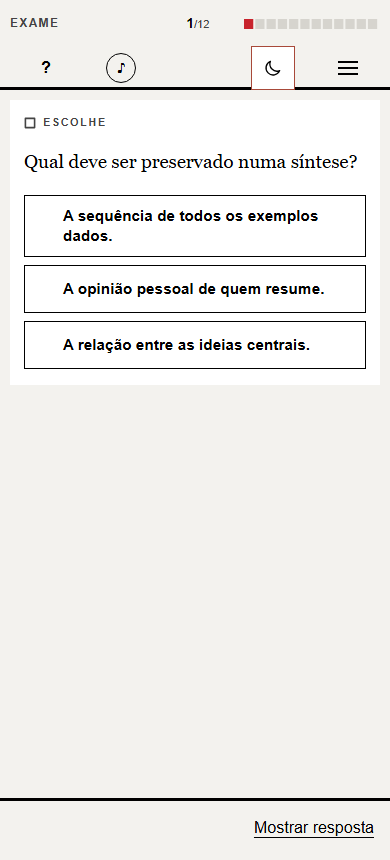
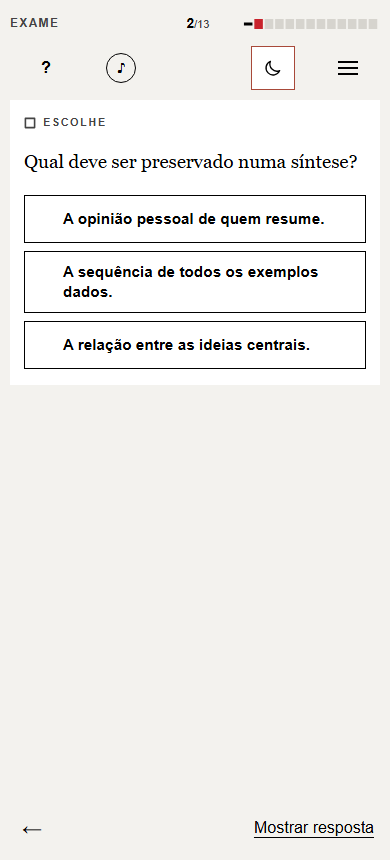
Disponibilizar os textos de apoio nos aquecimentos de síntese e estudo

diff --git a/exame/aquecimentos/s20/index.html b/exame/aquecimentos/s20/index.html
@@ -28,7 +28,7 @@
 <div id="relogio-aquecer"></div>
 <p class="c-menu-extra">Podes consultar os textos. O progresso fica neste aparelho; a projeção não o guarda.</p></div></div></div>
 <noscript>Ativa JavaScript para abrir os cartões. <a href="../../#s20/aquecer">Voltar à sessão</a>.</noscript>
-<script id="exame-aquecimento-dados" type="application/json">{"sessao": "s20", "versao": 1, "titulo": "Ler informação e escrever uma síntese", "cartoes": [{"p": "Qual deve ser preservado numa síntese?", "f": "A síntese mantém a informação essencial e as relações que a organizam; não acrescenta uma avaliação pessoal.", "legacyId": "s20-q1", "recycledFrom": "/pt/m9/licao-m9-f07/", "t": "escolha", "o": ["A relação entre as ideias centrais.", "A sequência de todos os exemplos dados.", "A opinião pessoal de quem resume."], "c": 0, "fe": [null, "Exemplos secundários podem sair; a organização das ideias não.", "Uma síntese não substitui a posição do texto pela tua opinião."]}, {"p": "Qual destas operações é reformulação?", "f": "Reformular exige compreender a ideia e construir outra expressão para o mesmo sentido, sem disfarçar cópia.", "legacyId": "s20-q2", "recycledFrom": "/pt/m9/licao-m9-f07/", "t": "escolha", "o": ["Dizer a ideia de outro modo, sem a alterar.", "Copiar a mesma ideia sem indicar de quem ela é.", "Trocar uma palavra, copiando todo o resto."], "c": 0, "fe": [null, "Retirar a autoria de uma cópia não a transforma numa reformulação.", "Trocar uma palavra pode deixar toda a estrutura copiada."]}, {"p": "No texto de apoio, que relação se estabelece entre rapidez e estudo?", "f": "A ideia é uma condição, não uma rejeição do acesso digital: a vantagem precisa de ser acompanhada por leitura crítica.", "legacyId": "s20-q3", "recycledFrom": "/pt/m9/licao-m9-f07/", "t": "escolha", "o": ["Ajuda, mas não substitui a compreensão.", "Dispensa compreender o que se encontra.", "Impede sempre compreender o que se lê."], "c": 0, "fe": [null, "Encontrar rapidamente não dispensa compreender.", "O texto reconhece utilidade à rapidez; não a apresenta como impedimento absoluto."]}, {"t": "emparelhar", "p": "Liga cada operação ao seu objetivo.", "pares": [["Localizar a ideia que organiza o texto", "Selecionar o essencial"], ["Dizer a mesma ideia com outras palavras", "Reformular sem alterar"], ["Conservar a relação entre duas ideias", "Manter a organização"]], "f": "Selecionar não é copiar tudo; reformular não é alterar o sentido. Verifica também como as ideias se ligam.", "fe": "Confere o indício e a relação pedidos, antes de voltares a responder.", "recycledFrom": "/pt/m4/licao-m4-f27/", "sourceCard": 13, "adaptacao": "Operação da lição aplicada a um recorte ou exemplo indicado no cartão."}, {"t": "sublinhar", "p": "No exemplo criado para este treino, toca na palavra que impede tratar a relação como causa.", "frase": "A consulta é rápida, mas compreender exige relacionar ideias.", "certas": [4], "f": "Mas opõe a rapidez à exigência de compreender. Uma síntese que o trocasse por porque alteraria a relação entre as ideias.", "fe": "Confere o indício e a relação pedidos, antes de voltares a responder.", "recycledFrom": "/pt/m7/licao-m7-f07/", "sourceCard": 4, "adaptacao": "Operação da lição aplicada a um recorte ou exemplo indicado no cartão."}, {"t": "completar", "p": "Completa uma regra de reformulação fiel.", "frase": "Mudam as [1], mas conserva-se o [2] da passagem.", "lacunas": [{"o": ["palavras", "citações"], "c": 0, "fe": [null, "Nesta lacuna, citações não corresponde à relação pedida."]}, {"o": ["sentido", "tamanho"], "c": 0, "fe": [null, "Nesta lacuna, tamanho não corresponde à relação pedida."]}], "f": "Reformular altera a expressão, não o sentido. Conservar o número de palavras não garante que a ideia se mantenha.", "fe": "Confere o indício e a relação pedidos, antes de voltares a responder.", "recycledFrom": "/pt/m4/licao-m4-f27/", "sourceCard": 13, "adaptacao": "Operação da lição aplicada a um recorte ou exemplo indicado no cartão."}, {"t": "ordenar", "p": "Ordena a preparação de uma síntese.", "passos": ["Ler o texto por inteiro", "Distinguir ideias centrais e exemplos", "Registar as relações entre as ideias", "Reformular e confrontar com o original"], "f": "Não comeces por cortar frases ao acaso. Lê o conjunto, seleciona e verifica se a versão breve conserva as relações.", "fe": "Confere o indício e a relação pedidos, antes de voltares a responder.", "recycledFrom": "/pt/m9/licao-m9-f07/", "sourceCard": 15, "adaptacao": "Operação da lição aplicada a um recorte ou exemplo indicado no cartão."}, {"t": "vf", "p": "Uma citação correta pode ser insuficiente para explicar uma ideia.", "v": true, "f": "A lição distingue ideia, prova e explicação. Repara se a resposta apenas transcreve ou se mostra como a passagem apoia a ideia.", "fe": "Confere o indício e a relação pedidos, antes de voltares a responder.", "recycledFrom": "/pt/m4/licao-m4-f27/", "sourceCard": 11, "adaptacao": "Operação da lição aplicada a um recorte ou exemplo indicado no cartão."}, {"t": "emparelhar", "p": "Distingue três operações presentes nas respostas.", "pares": [["Dar o nome de um recurso", "Identificar"], ["Mostrar como um indício apoia uma ideia", "Fundamentar"], ["Relacionar textos por um mesmo critério", "Comparar"]], "f": "O verbo do pedido orienta a resposta. Dar um nome não substitui explicar a ligação entre a prova e a ideia.", "fe": "Confere o indício e a relação pedidos, antes de voltares a responder.", "recycledFrom": "/pt/m4/licao-m4-f27/", "sourceCard": 14, "adaptacao": "Operação da lição aplicada a um recorte ou exemplo indicado no cartão."}, {"t": "sublinhar", "p": "No exemplo imaginário, toca na palavra que limita o alcance da afirmação.", "frase": "Alguns leitores confundem rapidez de consulta com compreensão.", "certas": [0], "f": "Alguns limita o conjunto. Uma síntese que dissesse todos acrescentaria uma generalização que a frase não autoriza.", "fe": "Confere o indício e a relação pedidos, antes de voltares a responder.", "recycledFrom": "/pt/m2/licao-m2-f08/", "sourceCard": 7, "adaptacao": "Operação da lição aplicada a um recorte ou exemplo indicado no cartão."}, {"t": "vf", "p": "Um exemplo secundário deve ocupar sempre tanto espaço como a ideia central numa síntese.", "v": false, "f": "A seleção depende da função de cada informação. Repara no que organiza o texto e no que apenas ilustra essa ideia.", "fe": "Confere o indício e a relação pedidos, antes de voltares a responder.", "recycledFrom": "/pt/m9/licao-m9-f07/", "sourceCard": 15, "adaptacao": "Operação da lição aplicada a um recorte ou exemplo indicado no cartão."}, {"t": "ordenar", "p": "Ordena a revisão de uma reformulação.", "passos": ["Confrontar a ideia com a passagem original", "Verificar o alcance das afirmações", "Confirmar os conectores e os referentes", "Retirar repetições dispensáveis"], "f": "Revê o sentido antes do tamanho. Alterar um quantificador ou um conector pode mudar a ideia mesmo numa frase curta.", "fe": "Confere o indício e a relação pedidos, antes de voltares a responder.", "recycledFrom": "/pt/m2/licao-m2-f08/", "sourceCard": 18, "adaptacao": "Operação da lição aplicada a um recorte ou exemplo indicado no cartão."}]}</script>
+<script id="exame-aquecimento-dados" type="application/json">{"sessao": "s20", "versao": 1, "titulo": "Ler informação e escrever uma síntese", "cartoes": [{"t": "ler", "titulo": "Texto para consultar", "html": "<p>Consulta o texto quando precisares de confirmar uma escolha.<\/p><details><summary>Abrir o texto de apoio<\/summary><p>A consulta digital permite encontrar documentos com rapidez e aproximar leitores de obras que antes estavam longe. Contudo, a abundância de resultados cria também dificuldades de seleção. Uma lista extensa pode repetir a mesma origem ou misturar informação verificada e interpretação. A biblioteca ajuda a organizar esse universo: identifica fontes, oferece critérios e apoia quem procura. Estudar exige, por isso, comparar documentos e perceber as relações entre as ideias. Copiar fragmentos para uma pasta não equivale a compreender. A rapidez de acesso é uma vantagem quando é acompanhada pelo tempo necessário para ler, interrogar e reformular. O objetivo não é acumular resultados, mas construir conhecimento que possa ser explicado e usado com responsabilidade.<\/p><p class=\"fonte\">Texto e proposta produzidos para este treino.<\/p><\/details>", "recycledFrom": "/pt/exame/", "sourceSession": "s20"}, {"p": "Qual deve ser preservado numa síntese?", "f": "A síntese mantém a informação essencial e as relações que a organizam; não acrescenta uma avaliação pessoal.", "legacyId": "s20-q1", "recycledFrom": "/pt/m9/licao-m9-f07/", "t": "escolha", "o": ["A relação entre as ideias centrais.", "A sequência de todos os exemplos dados.", "A opinião pessoal de quem resume."], "c": 0, "fe": [null, "Exemplos secundários podem sair; a organização das ideias não.", "Uma síntese não substitui a posição do texto pela tua opinião."]}, {"p": "Qual destas operações é reformulação?", "f": "Reformular exige compreender a ideia e construir outra expressão para o mesmo sentido, sem disfarçar cópia.", "legacyId": "s20-q2", "recycledFrom": "/pt/m9/licao-m9-f07/", "t": "escolha", "o": ["Dizer a ideia de outro modo, sem a alterar.", "Copiar a mesma ideia sem indicar de quem ela é.", "Trocar uma palavra, copiando todo o resto."], "c": 0, "fe": [null, "Retirar a autoria de uma cópia não a transforma numa reformulação.", "Trocar uma palavra pode deixar toda a estrutura copiada."]}, {"p": "No texto de apoio, que relação se estabelece entre rapidez e estudo?", "f": "A ideia é uma condição, não uma rejeição do acesso digital: a vantagem precisa de ser acompanhada por leitura crítica.", "legacyId": "s20-q3", "recycledFrom": "/pt/m9/licao-m9-f07/", "t": "escolha", "o": ["Ajuda, mas não substitui a compreensão.", "Dispensa compreender o que se encontra.", "Impede sempre compreender o que se lê."], "c": 0, "fe": [null, "Encontrar rapidamente não dispensa compreender.", "O texto reconhece utilidade à rapidez; não a apresenta como impedimento absoluto."]}, {"t": "emparelhar", "p": "Liga cada operação ao seu objetivo.", "pares": [["Localizar a ideia que organiza o texto", "Selecionar o essencial"], ["Dizer a mesma ideia com outras palavras", "Reformular sem alterar"], ["Conservar a relação entre duas ideias", "Manter a organização"]], "f": "Selecionar não é copiar tudo; reformular não é alterar o sentido. Verifica também como as ideias se ligam.", "fe": "Confere o indício e a relação pedidos, antes de voltares a responder.", "recycledFrom": "/pt/m4/licao-m4-f27/", "sourceCard": 13, "adaptacao": "Operação da lição aplicada a um recorte ou exemplo indicado no cartão."}, {"t": "sublinhar", "p": "No exemplo criado para este treino, toca na palavra que impede tratar a relação como causa.", "frase": "A consulta é rápida, mas compreender exige relacionar ideias.", "certas": [4], "f": "Mas opõe a rapidez à exigência de compreender. Uma síntese que o trocasse por porque alteraria a relação entre as ideias.", "fe": "Confere o indício e a relação pedidos, antes de voltares a responder.", "recycledFrom": "/pt/m7/licao-m7-f07/", "sourceCard": 4, "adaptacao": "Operação da lição aplicada a um recorte ou exemplo indicado no cartão."}, {"t": "completar", "p": "Completa uma regra de reformulação fiel.", "frase": "Mudam as [1], mas conserva-se o [2] da passagem.", "lacunas": [{"o": ["palavras", "citações"], "c": 0, "fe": [null, "Nesta lacuna, citações não corresponde à relação pedida."]}, {"o": ["sentido", "tamanho"], "c": 0, "fe": [null, "Nesta lacuna, tamanho não corresponde à relação pedida."]}], "f": "Reformular altera a expressão, não o sentido. Conservar o número de palavras não garante que a ideia se mantenha.", "fe": "Confere o indício e a relação pedidos, antes de voltares a responder.", "recycledFrom": "/pt/m4/licao-m4-f27/", "sourceCard": 13, "adaptacao": "Operação da lição aplicada a um recorte ou exemplo indicado no cartão."}, {"t": "ordenar", "p": "Ordena a preparação de uma síntese.", "passos": ["Ler o texto por inteiro", "Distinguir ideias centrais e exemplos", "Registar as relações entre as ideias", "Reformular e confrontar com o original"], "f": "Não comeces por cortar frases ao acaso. Lê o conjunto, seleciona e verifica se a versão breve conserva as relações.", "fe": "Confere o indício e a relação pedidos, antes de voltares a responder.", "recycledFrom": "/pt/m9/licao-m9-f07/", "sourceCard": 15, "adaptacao": "Operação da lição aplicada a um recorte ou exemplo indicado no cartão."}, {"t": "vf", "p": "Uma citação correta pode ser insuficiente para explicar uma ideia.", "v": true, "f": "A lição distingue ideia, prova e explicação. Repara se a resposta apenas transcreve ou se mostra como a passagem apoia a ideia.", "fe": "Confere o indício e a relação pedidos, antes de voltares a responder.", "recycledFrom": "/pt/m4/licao-m4-f27/", "sourceCard": 11, "adaptacao": "Operação da lição aplicada a um recorte ou exemplo indicado no cartão."}, {"t": "emparelhar", "p": "Distingue três operações presentes nas respostas.", "pares": [["Dar o nome de um recurso", "Identificar"], ["Mostrar como um indício apoia uma ideia", "Fundamentar"], ["Relacionar textos por um mesmo critério", "Comparar"]], "f": "O verbo do pedido orienta a resposta. Dar um nome não substitui explicar a ligação entre a prova e a ideia.", "fe": "Confere o indício e a relação pedidos, antes de voltares a responder.", "recycledFrom": "/pt/m4/licao-m4-f27/", "sourceCard": 14, "adaptacao": "Operação da lição aplicada a um recorte ou exemplo indicado no cartão."}, {"t": "sublinhar", "p": "No exemplo imaginário, toca na palavra que limita o alcance da afirmação.", "frase": "Alguns leitores confundem rapidez de consulta com compreensão.", "certas": [0], "f": "Alguns limita o conjunto. Uma síntese que dissesse todos acrescentaria uma generalização que a frase não autoriza.", "fe": "Confere o indício e a relação pedidos, antes de voltares a responder.", "recycledFrom": "/pt/m2/licao-m2-f08/", "sourceCard": 7, "adaptacao": "Operação da lição aplicada a um recorte ou exemplo indicado no cartão."}, {"t": "vf", "p": "Um exemplo secundário deve ocupar sempre tanto espaço como a ideia central numa síntese.", "v": false, "f": "A seleção depende da função de cada informação. Repara no que organiza o texto e no que apenas ilustra essa ideia.", "fe": "Confere o indício e a relação pedidos, antes de voltares a responder.", "recycledFrom": "/pt/m9/licao-m9-f07/", "sourceCard": 15, "adaptacao": "Operação da lição aplicada a um recorte ou exemplo indicado no cartão."}, {"t": "ordenar", "p": "Ordena a revisão de uma reformulação.", "passos": ["Confrontar a ideia com a passagem original", "Verificar o alcance das afirmações", "Confirmar os conectores e os referentes", "Retirar repetições dispensáveis"], "f": "Revê o sentido antes do tamanho. Alterar um quantificador ou um conector pode mudar a ideia mesmo numa frase curta.", "fe": "Confere o indício e a relação pedidos, antes de voltares a responder.", "recycledFrom": "/pt/m2/licao-m2-f08/", "sourceCard": 18, "adaptacao": "Operação da lição aplicada a um recorte ou exemplo indicado no cartão."}]}</script>
 <script defer src="../../../assets/exame/aquecimento.js?v=20261101"></script>
 <script defer src="../../../assets/projection-launcher.js?v=20261019.4" data-site="pt"></script>
 </body></html>

diff --git a/exame/aquecimentos/s27/index.html b/exame/aquecimentos/s27/index.html
@@ -28,7 +28,7 @@
 <div id="relogio-aquecer"></div>
 <p class="c-menu-extra">Podes consultar os textos. O progresso fica neste aparelho; a projeção não o guarda.</p></div></div></div>
 <noscript>Ativa JavaScript para abrir os cartões. <a href="../../#s27/aquecer">Voltar à sessão</a>.</noscript>
-<script id="exame-aquecimento-dados" type="application/json">{"sessao": "s27", "versao": 1, "titulo": "Ver, compreender, estudar melhor", "cartoes": [{"p": "Reconhecer uma explicação ao relê-la basta para verificar se a sabes aplicar?", "f": "Aplicar num caso diferente ajuda a distinguir a familiaridade com as palavras da compreensão do conteúdo.", "legacyId": "s27-q1", "recycledFrom": "/pt/m5/licao-m5-f07/", "t": "escolha", "o": ["Não: testa a aplicação num caso novo.", "Sim: reconhecer e aplicar são iguais.", "Sim: basta reler a explicação depressa."], "c": 0, "fe": [null, "Reconhecer uma explicação e aplicá-la são operações diferentes.", "A velocidade da releitura não demonstra aplicação autónoma."]}, {"p": "Qual destes registos ajuda mais a decidir o que rever?", "f": "O registo concreto permite escolher uma ação de revisão e verificar depois se a dificuldade foi ultrapassada.", "legacyId": "s27-q2", "recycledFrom": "/pt/m5/licao-m5-f07/", "t": "escolha", "o": ["Identifiquei a função, mas não a expliquei.", "Dediquei bastante tempo a estudar esta parte.", "Achei o estudo desta parte muito difícil."], "c": 0, "fe": [null, "O tempo de estudo não identifica a operação que falta dominar.", "Difícil é uma avaliação vaga, sem diagnóstico do passo em falta."]}, {"p": "Como usar uma proposta de estudo apresentada num vídeo?", "f": "Uma proposta deve ser aplicada e avaliada. A utilidade depende do que precisas de aprender e do resultado do ensaio.", "legacyId": "s27-q3", "recycledFrom": "/pt/m5/licao-m5-f07/", "t": "escolha", "o": ["Testar, observar resultados e ajustar.", "Cumprir sempre, sem rever resultados.", "Aceitar como garantia de bons resultados."], "c": 0, "fe": [null, "Um procedimento que não ajuda precisa de ser ajustado.", "Uma proposta de estudo não garante o resultado sem aplicação e verificação."]}, {"t": "emparelhar", "p": "Liga cada função ao nível da frase a que pertence.", "pares": [["Sujeito e predicado", "ao nível da frase"], ["Complemento oblíquo", "interno ao grupo verbal"], ["Complemento do nome", "interno ao grupo nominal"]], "f": "Três níveis: a frase, o grupo verbal, o grupo nominal; cada função tem o seu.", "recycledFrom": "/pt/m5/licao-m5-f07/", "sourceCard": 13, "fe": "Confere o indício e a relação pedidos, antes de voltares a responder."}, {"t": "vf", "p": "Cortar «serenamente» de «Entrou serenamente no seu quarto» deixa a frase inteira: é modificador do grupo verbal.", "v": true, "f": "Verdadeiro: «Entrou no seu quarto» aguenta-se; o **teste de cortar** revela o modificador do grupo verbal.", "fe": "É verdadeiro: «Entrou no seu quarto» aguenta-se sem «serenamente»; o que se corta sem estragar a frase é modificador do grupo verbal.", "recycledFrom": "/pt/m5/licao-m5-f07/", "sourceCard": 14}, {"t": "emparelhar", "p": "Liga cada pedaço da frase à sua função sintática.", "pares": [["Teresa", "sujeito"], ["enviou a trança a Simão", "predicado"], ["a trança", "complemento direto"], ["a Simão", "complemento indireto"]], "f": "Quem? Teresa. O quê? A trança, que vira «a». A quem? A Simão, que vira «lhe»: juntos, «enviou-lha».", "recycledFrom": "/pt/m5/licao-m5-f07/", "sourceCard": 19, "fe": "Confere o indício e a relação pedidos, antes de voltares a responder."}, {"t": "sublinhar", "p": "No exemplo de treino, toca no grupo que o verbo seleciona como complemento direto.", "frase": "A leitora encontrou provas no texto.", "certas": [3], "f": "Provas é o que a leitora encontrou. No texto situa a ação, mas não responde à pergunta sobre o que foi encontrado.", "fe": "Confere o indício e a relação pedidos, antes de voltares a responder.", "recycledFrom": "/pt/m5/licao-m5-f07/", "sourceCard": 3, "adaptacao": "Operação da lição aplicada a um recorte ou exemplo indicado no cartão."}, {"t": "completar", "p": "Completa o registo de uma dificuldade concreta.", "frase": "Consigo [1] a função, mas ainda preciso de [2] a relação com o verbo.", "lacunas": [{"o": ["nomear", "copiar"], "c": 0, "fe": [null, "Nesta lacuna, copiar não corresponde à relação pedida."]}, {"o": ["explicar", "recordar"], "c": 0, "fe": [null, "Nesta lacuna, recordar não corresponde à relação pedida."]}], "f": "Nomear a função e explicar a relação são operações diferentes. O registo útil indica precisamente qual delas ainda falta dominar.", "fe": "Confere o indício e a relação pedidos, antes de voltares a responder.", "recycledFrom": "/pt/m5/licao-m5-f07/", "sourceCard": 13, "adaptacao": "Operação da lição aplicada a um recorte ou exemplo indicado no cartão."}, {"t": "ordenar", "p": "Ordena uma verificação da aprendizagem.", "passos": ["Resolver um exemplo sem consultar a explicação", "Confrontar a resposta com a justificação", "Identificar a operação em que houve dificuldade", "Resolver outro exemplo dessa operação"], "f": "Reconhecer uma explicação não prova que a sabes aplicar. O segundo exemplo verifica se corrigiste a dificuldade, não apenas se recordas a resposta.", "fe": "Confere o indício e a relação pedidos, antes de voltares a responder.", "recycledFrom": "/pt/m5/licao-m5-f07/", "sourceCard": 9, "adaptacao": "Operação da lição aplicada a um recorte ou exemplo indicado no cartão."}, {"t": "vf", "p": "Se acertas no nome da função mas não consegues justificá-la, já verificaste as duas operações.", "v": false, "f": "Nomear e justificar exigem respostas diferentes. Volta à relação entre o verbo e o grupo da frase para testar a segunda operação.", "fe": "Confere o indício e a relação pedidos, antes de voltares a responder.", "recycledFrom": "/pt/m5/licao-m5-f07/", "sourceCard": 13, "adaptacao": "Operação da lição aplicada a um recorte ou exemplo indicado no cartão."}, {"t": "sublinhar", "p": "No registo de treino, toca no que identifica uma dificuldade observável.", "frase": "Acertei na função, mas não expliquei a seleção pelo verbo.", "certas": [4, 5, 6, 7, 8, 9], "f": "Não expliquei a seleção pelo verbo identifica o passo em falta. Uma avaliação vaga de esforço não mostra o que deves voltar a experimentar.", "fe": "Confere o indício e a relação pedidos, antes de voltares a responder.", "recycledFrom": "/pt/m5/licao-m5-f07/", "sourceCard": 13, "adaptacao": "Operação da lição aplicada a um recorte ou exemplo indicado no cartão."}, {"t": "ordenar", "p": "Ordena o uso de uma explicação de ajuda.", "passos": ["Escolher a ajuda para a dificuldade identificada", "Observar o procedimento explicado", "Aplicar o procedimento a outro exemplo", "Verificar o resultado e ajustar o estudo"], "f": "A ajuda serve uma dificuldade concreta. Voltar ao vídeo sem experimentar a operação pode deixar a mesma dificuldade por resolver.", "fe": "Confere o indício e a relação pedidos, antes de voltares a responder.", "recycledFrom": "/pt/m5/licao-m5-f07/", "sourceCard": 9, "adaptacao": "Operação da lição aplicada a um recorte ou exemplo indicado no cartão."}]}</script>
+<script id="exame-aquecimento-dados" type="application/json">{"sessao": "s27", "versao": 1, "titulo": "Ver, compreender, estudar melhor", "cartoes": [{"t": "ler", "titulo": "Texto para consultar", "html": "<p>Consulta o texto quando precisares de confirmar uma escolha.<\/p><details><summary>Abrir o texto de apoio<\/summary><p>A Inês reconhece as definições quando as relê. Numa frase nova, hesita na função sintática. O Rui termina depressa uma resposta sobre um poema, mas não explica o que a sua citação demonstra.<\/p><p class=\"fonte\">Proposta de aplicação produzida para esta sessão.<\/p><\/details>", "recycledFrom": "/pt/exame/", "sourceSession": "s27"}, {"p": "Reconhecer uma explicação ao relê-la basta para verificar se a sabes aplicar?", "f": "Aplicar num caso diferente ajuda a distinguir a familiaridade com as palavras da compreensão do conteúdo.", "legacyId": "s27-q1", "recycledFrom": "/pt/m5/licao-m5-f07/", "t": "escolha", "o": ["Não: testa a aplicação num caso novo.", "Sim: reconhecer e aplicar são iguais.", "Sim: basta reler a explicação depressa."], "c": 0, "fe": [null, "Reconhecer uma explicação e aplicá-la são operações diferentes.", "A velocidade da releitura não demonstra aplicação autónoma."]}, {"p": "Qual destes registos ajuda mais a decidir o que rever?", "f": "O registo concreto permite escolher uma ação de revisão e verificar depois se a dificuldade foi ultrapassada.", "legacyId": "s27-q2", "recycledFrom": "/pt/m5/licao-m5-f07/", "t": "escolha", "o": ["Identifiquei a função, mas não a expliquei.", "Dediquei bastante tempo a estudar esta parte.", "Achei o estudo desta parte muito difícil."], "c": 0, "fe": [null, "O tempo de estudo não identifica a operação que falta dominar.", "Difícil é uma avaliação vaga, sem diagnóstico do passo em falta."]}, {"p": "Como usar uma proposta de estudo apresentada num vídeo?", "f": "Uma proposta deve ser aplicada e avaliada. A utilidade depende do que precisas de aprender e do resultado do ensaio.", "legacyId": "s27-q3", "recycledFrom": "/pt/m5/licao-m5-f07/", "t": "escolha", "o": ["Testar, observar resultados e ajustar.", "Cumprir sempre, sem rever resultados.", "Aceitar como garantia de bons resultados."], "c": 0, "fe": [null, "Um procedimento que não ajuda precisa de ser ajustado.", "Uma proposta de estudo não garante o resultado sem aplicação e verificação."]}, {"t": "emparelhar", "p": "Liga cada função ao nível da frase a que pertence.", "pares": [["Sujeito e predicado", "ao nível da frase"], ["Complemento oblíquo", "interno ao grupo verbal"], ["Complemento do nome", "interno ao grupo nominal"]], "f": "Três níveis: a frase, o grupo verbal, o grupo nominal; cada função tem o seu.", "recycledFrom": "/pt/m5/licao-m5-f07/", "sourceCard": 13, "fe": "Confere o indício e a relação pedidos, antes de voltares a responder."}, {"t": "vf", "p": "Cortar «serenamente» de «Entrou serenamente no seu quarto» deixa a frase inteira: é modificador do grupo verbal.", "v": true, "f": "Verdadeiro: «Entrou no seu quarto» aguenta-se; o **teste de cortar** revela o modificador do grupo verbal.", "fe": "É verdadeiro: «Entrou no seu quarto» aguenta-se sem «serenamente»; o que se corta sem estragar a frase é modificador do grupo verbal.", "recycledFrom": "/pt/m5/licao-m5-f07/", "sourceCard": 14}, {"t": "emparelhar", "p": "Liga cada pedaço da frase à sua função sintática.", "pares": [["Teresa", "sujeito"], ["enviou a trança a Simão", "predicado"], ["a trança", "complemento direto"], ["a Simão", "complemento indireto"]], "f": "Quem? Teresa. O quê? A trança, que vira «a». A quem? A Simão, que vira «lhe»: juntos, «enviou-lha».", "recycledFrom": "/pt/m5/licao-m5-f07/", "sourceCard": 19, "fe": "Confere o indício e a relação pedidos, antes de voltares a responder."}, {"t": "sublinhar", "p": "No exemplo de treino, toca no grupo que o verbo seleciona como complemento direto.", "frase": "A leitora encontrou provas no texto.", "certas": [3], "f": "Provas é o que a leitora encontrou. No texto situa a ação, mas não responde à pergunta sobre o que foi encontrado.", "fe": "Confere o indício e a relação pedidos, antes de voltares a responder.", "recycledFrom": "/pt/m5/licao-m5-f07/", "sourceCard": 3, "adaptacao": "Operação da lição aplicada a um recorte ou exemplo indicado no cartão."}, {"t": "completar", "p": "Completa o registo de uma dificuldade concreta.", "frase": "Consigo [1] a função, mas ainda preciso de [2] a relação com o verbo.", "lacunas": [{"o": ["nomear", "copiar"], "c": 0, "fe": [null, "Nesta lacuna, copiar não corresponde à relação pedida."]}, {"o": ["explicar", "recordar"], "c": 0, "fe": [null, "Nesta lacuna, recordar não corresponde à relação pedida."]}], "f": "Nomear a função e explicar a relação são operações diferentes. O registo útil indica precisamente qual delas ainda falta dominar.", "fe": "Confere o indício e a relação pedidos, antes de voltares a responder.", "recycledFrom": "/pt/m5/licao-m5-f07/", "sourceCard": 13, "adaptacao": "Operação da lição aplicada a um recorte ou exemplo indicado no cartão."}, {"t": "ordenar", "p": "Ordena uma verificação da aprendizagem.", "passos": ["Resolver um exemplo sem consultar a explicação", "Confrontar a resposta com a justificação", "Identificar a operação em que houve dificuldade", "Resolver outro exemplo dessa operação"], "f": "Reconhecer uma explicação não prova que a sabes aplicar. O segundo exemplo verifica se corrigiste a dificuldade, não apenas se recordas a resposta.", "fe": "Confere o indício e a relação pedidos, antes de voltares a responder.", "recycledFrom": "/pt/m5/licao-m5-f07/", "sourceCard": 9, "adaptacao": "Operação da lição aplicada a um recorte ou exemplo indicado no cartão."}, {"t": "vf", "p": "Se acertas no nome da função mas não consegues justificá-la, já verificaste as duas operações.", "v": false, "f": "Nomear e justificar exigem respostas diferentes. Volta à relação entre o verbo e o grupo da frase para testar a segunda operação.", "fe": "Confere o indício e a relação pedidos, antes de voltares a responder.", "recycledFrom": "/pt/m5/licao-m5-f07/", "sourceCard": 13, "adaptacao": "Operação da lição aplicada a um recorte ou exemplo indicado no cartão."}, {"t": "sublinhar", "p": "No registo de treino, toca no que identifica uma dificuldade observável.", "frase": "Acertei na função, mas não expliquei a seleção pelo verbo.", "certas": [4, 5, 6, 7, 8, 9], "f": "Não expliquei a seleção pelo verbo identifica o passo em falta. Uma avaliação vaga de esforço não mostra o que deves voltar a experimentar.", "fe": "Confere o indício e a relação pedidos, antes de voltares a responder.", "recycledFrom": "/pt/m5/licao-m5-f07/", "sourceCard": 13, "adaptacao": "Operação da lição aplicada a um recorte ou exemplo indicado no cartão."}, {"t": "ordenar", "p": "Ordena o uso de uma explicação de ajuda.", "passos": ["Escolher a ajuda para a dificuldade identificada", "Observar o procedimento explicado", "Aplicar o procedimento a outro exemplo", "Verificar o resultado e ajustar o estudo"], "f": "A ajuda serve uma dificuldade concreta. Voltar ao vídeo sem experimentar a operação pode deixar a mesma dificuldade por resolver.", "fe": "Confere o indício e a relação pedidos, antes de voltares a responder.", "recycledFrom": "/pt/m5/licao-m5-f07/", "sourceCard": 9, "adaptacao": "Operação da lição aplicada a um recorte ou exemplo indicado no cartão."}]}</script>
 <script defer src="../../../assets/exame/aquecimento.js?v=20261101"></script>
 <script defer src="../../../assets/projection-launcher.js?v=20261019.4" data-site="pt"></script>
 </body></html>

diff --git a/tests/browser_exame_aquecimentos.py b/tests/browser_exame_aquecimentos.py
@@ -55,12 +55,15 @@ def main():
             ctx, page, errors = nova(browser, 390)
             d = BANKS[19]
             page.goto(host+'/exame/aquecimentos/s20/', wait_until='networkidle')
+            assert d['cartoes'][0]['t'] == 'ler'
+            responder(page, 0, d['cartoes'][0], 'apoio s20')
+            fazer = [c for c in d['cartoes'] if c['t'] != 'ler']
             page.locator('#baralho .op[data-j="1"]').click()
-            assert d['cartoes'][0]['fe'][1] in page.locator('[data-c-folha]').text_content()
+            assert fazer[0]['fe'][1] in page.locator('[data-c-folha]').text_content()
             page.locator('[data-c-folha] [data-seguinte]').click()
-            for k, c in enumerate(d['cartoes'][1:5], 1):
+            for k, c in enumerate(fazer[1:5], 1):
                 responder(page, k, c, 'retorno s20')
-            c = d['cartoes'][5]
+            c = fazer[5]
             assert c['t'] == 'completar'
             page.locator('select[data-k="0"]').select_option('1')
             page.locator('select[data-k="1"]').select_option('0')

diff --git a/tests/test_exame_aquecimentos.py b/tests/test_exame_aquecimentos.py
@@ -4,6 +4,7 @@ from pathlib import Path
 import re
 import sys
 import unittest
+from html import unescape
 
 ROOT = Path(__file__).resolve().parents[1]
 sys.path.insert(0, str(ROOT / 'scripts'))
@@ -45,6 +46,13 @@ class AquecimentosExame(unittest.TestCase):
     def test_ajudas_existentes(self):
         for name in ('escolher', 'verdadeiro-falso', 'ligar-pares', 'ligar-lados', 'ordenar', 'tocar-palavras', 'completar'):
             self.assertTrue((ROOT / 'como' / (name + '.mp4')).is_file(), name)
+
+    def test_textos_autorais_da_sessao_consultaveis_nos_cartoes(self):
+        # 01/11/2026: uma pergunta que remete para o apoio tem o texto também na página própria.
+        for s in self.sessions:
+            if s['source'].get('excerpt'):
+                html = ''.join(c.get('html', '') for c in self.banks[s['id']]['cartoes'] if c['t'] == 'ler')
+                self.assertIn(s['source']['excerpt'], unescape(html))
 
     def test_tempos_e_chaves(self):
         for s in self.sessions:

diff --git a/docs/qa/exame-aquecimentos-20261101.md b/docs/qa/exame-aquecimentos-20261101.md
@@ -7,7 +7,7 @@ Ramo: `codex/exame-aquecimentos-20261101`. Integração apenas por revisão da e
 
 Cada sessão passa a ter 12 cartões de fazer, num total de 324. Conservam-se as 81 perguntas anteriores, com as opções reequilibradas e os títulos em itálico. Os dados antigos de `sessoes.json` mantêm-se para rastreabilidade; nesse ficheiro só muda a duração das sessões.
 
-Os bancos ficam em `docs/pedagogia/exame-aquecimentos/s01.json` a `s27.json`. Cada cartão indica `recycledFrom` e, nos acrescentos, `sourceCard`; `adaptacao` identifica transferências para exemplos de treino. Os textos primários são consultáveis, sem glossários nem modelos de resposta. Os exemplos inventados identificam-se como treino ou caso imaginário.
+Os bancos ficam em `docs/pedagogia/exame-aquecimentos/s01.json` a `s27.json`. Cada cartão indica `recycledFrom` e, nos acrescentos, `sourceCard`; `adaptacao` identifica transferências para exemplos de treino. Os textos primários são consultáveis, sem glossários nem modelos de resposta. Nas sessões 20 e 27, a consulta inclui também o texto original de treino da sessão, necessário para interpretar as perguntas anteriores. Os exemplos inventados identificam-se como treino ou caso imaginário.
 
 As páginas próprias em `exame/aquecimentos/sNN/` usam a casca e o motor das lições, sem os alterar. A página inteira evita dois níveis de deslocamento e barras concorrentes no telemóvel e na projeção. Há regresso ao aquecimento no topo e no menu e, no fim, continuação para a leitura. O relógio, acessível no menu dos cartões, partilha o estado com a fase Aquecer.
 
@@ -72,7 +72,7 @@ A passagem final de `python tests/browser_exame_aquecimentos.py` percorreu os 32
 | Comando | Resultado |
 |---|---|
 | `python scripts/exame_aquecimentos.py --check` | 27 páginas atuais; bancos válidos e opções dentro dos limites |
-| `python -m unittest discover -s tests -p 'test_exame*.py' -v` | 16 testes aprovados |
+| `python -m unittest discover -s tests -p 'test_exame*.py' -v` | 17 testes aprovados |
 | `node tests/exame-catalogo.cjs` | 27 sessões; 108 itens anteriores preservados; tempos e destinos válidos |
 | `python tests/browser_exame_aquecimentos.py` | 81 percursos completos, mais os casos de erro e projeção |
 | `node tests/browser_exame_laboratorio.cjs` | Aprovado |
